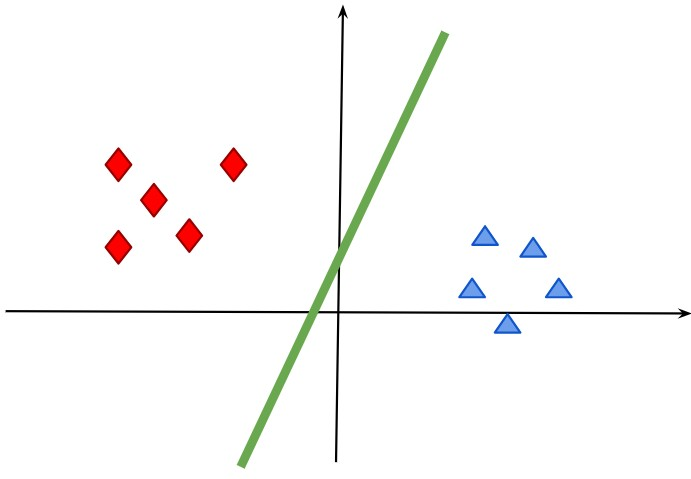
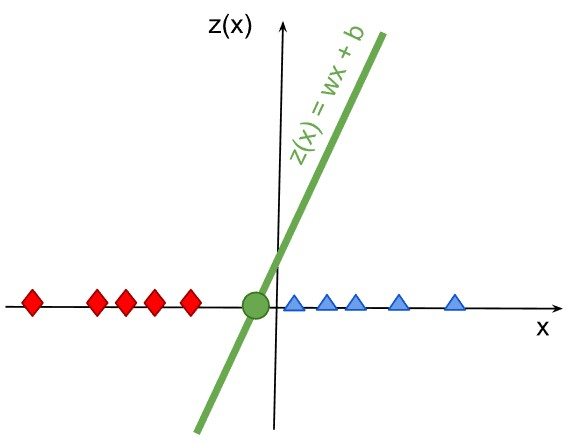
New post

diff --git a/_posts/2024-06-01-logistic-regression.md b/_posts/2024-06-01-logistic-regression.md
@@ -8,7 +8,7 @@ categories: machine learning
 **Logistic regression** is a particular type of **linear classifier**, 
 where the goal is to predict the probability of a binary outcome (yes/no, true/false).
 
-* Linear Classifier
+### Linear Classifier
 
 A linear classifier utilies a linear function to separate classes by a line 
 (or a hyperplane in higher dimensions): `z(x) = wx + b`:
@@ -18,12 +18,40 @@ A linear classifier utilies a linear function to separate classes by a line
 Here, `w` is the weight vector and `b` is the bias term.
 
 Since the fuction `z(x)` returnes a real number in the range `(-∞, +∞)`, we convert 
-this output to a class decision `y = 'red diamond'` and `y = 'blue triangle'`
-by applaing a threshold. 
+this output to a class decision `'red diamond'` and `'blue triangle'`
+by applying a threshold. 
 
-For instance, let's consider a simple threshold equals 0:
+In many linear classification algorithms, 
+a simple threshold of `0` is commonly used to make classification decisions.:
 
 * If `z(x) ≥ 0`, then we classify as _'red diamond'_, i.g., 
-our prediction is `y = 'red diamond'`;
+our prediction is `y = 0`;
 * If `z(x) < 0`, then we classify as _'blue triangle'_, i.g., 
-our prediction is `y = 'blue triangle'`.
+our prediction is `y = 1`.
+
+Thus, we are getting the **threshold function** to map the continuous 
+values of linear decision `z(x)` to binary predictions `y`:
+
+<img src="/assets/posts/logistic-2.jpg" width="400"/>
+
+### Logistic Regression
+
+Logistic regression is a particular type of linear classifier, 
+where we replace the simple threshold function with a **sigmoid function**:
+ <img src="/assets/posts/logistic-3a.jpg" width="100"/>
+
+<img src="/assets/posts/logistic-3.jpg" width="400"/>
+
+Since the sigmoid fuction returnes a real number in the range `(0, 1)`,
+we can concider this value as a **confidence score** for the class. 
+Thus: 
+* If the sample point is very close to the boundary line, 
+the output of the sigmoid function is very close to `0.5`. 
+It means, we are not certain if the class is correct.
+
+* If the points are faraway, the outputs of sigmoid function are close to `0`
+(_'red diamond'_) or `1` (_'blue triangle'_). 
+Expectedly, it means, we are certain of their class.
+
+These principles are the foundation of linear classification and logistic regression, 
+which are widely used due to their simplicity and effectiveness in many practical applications.
